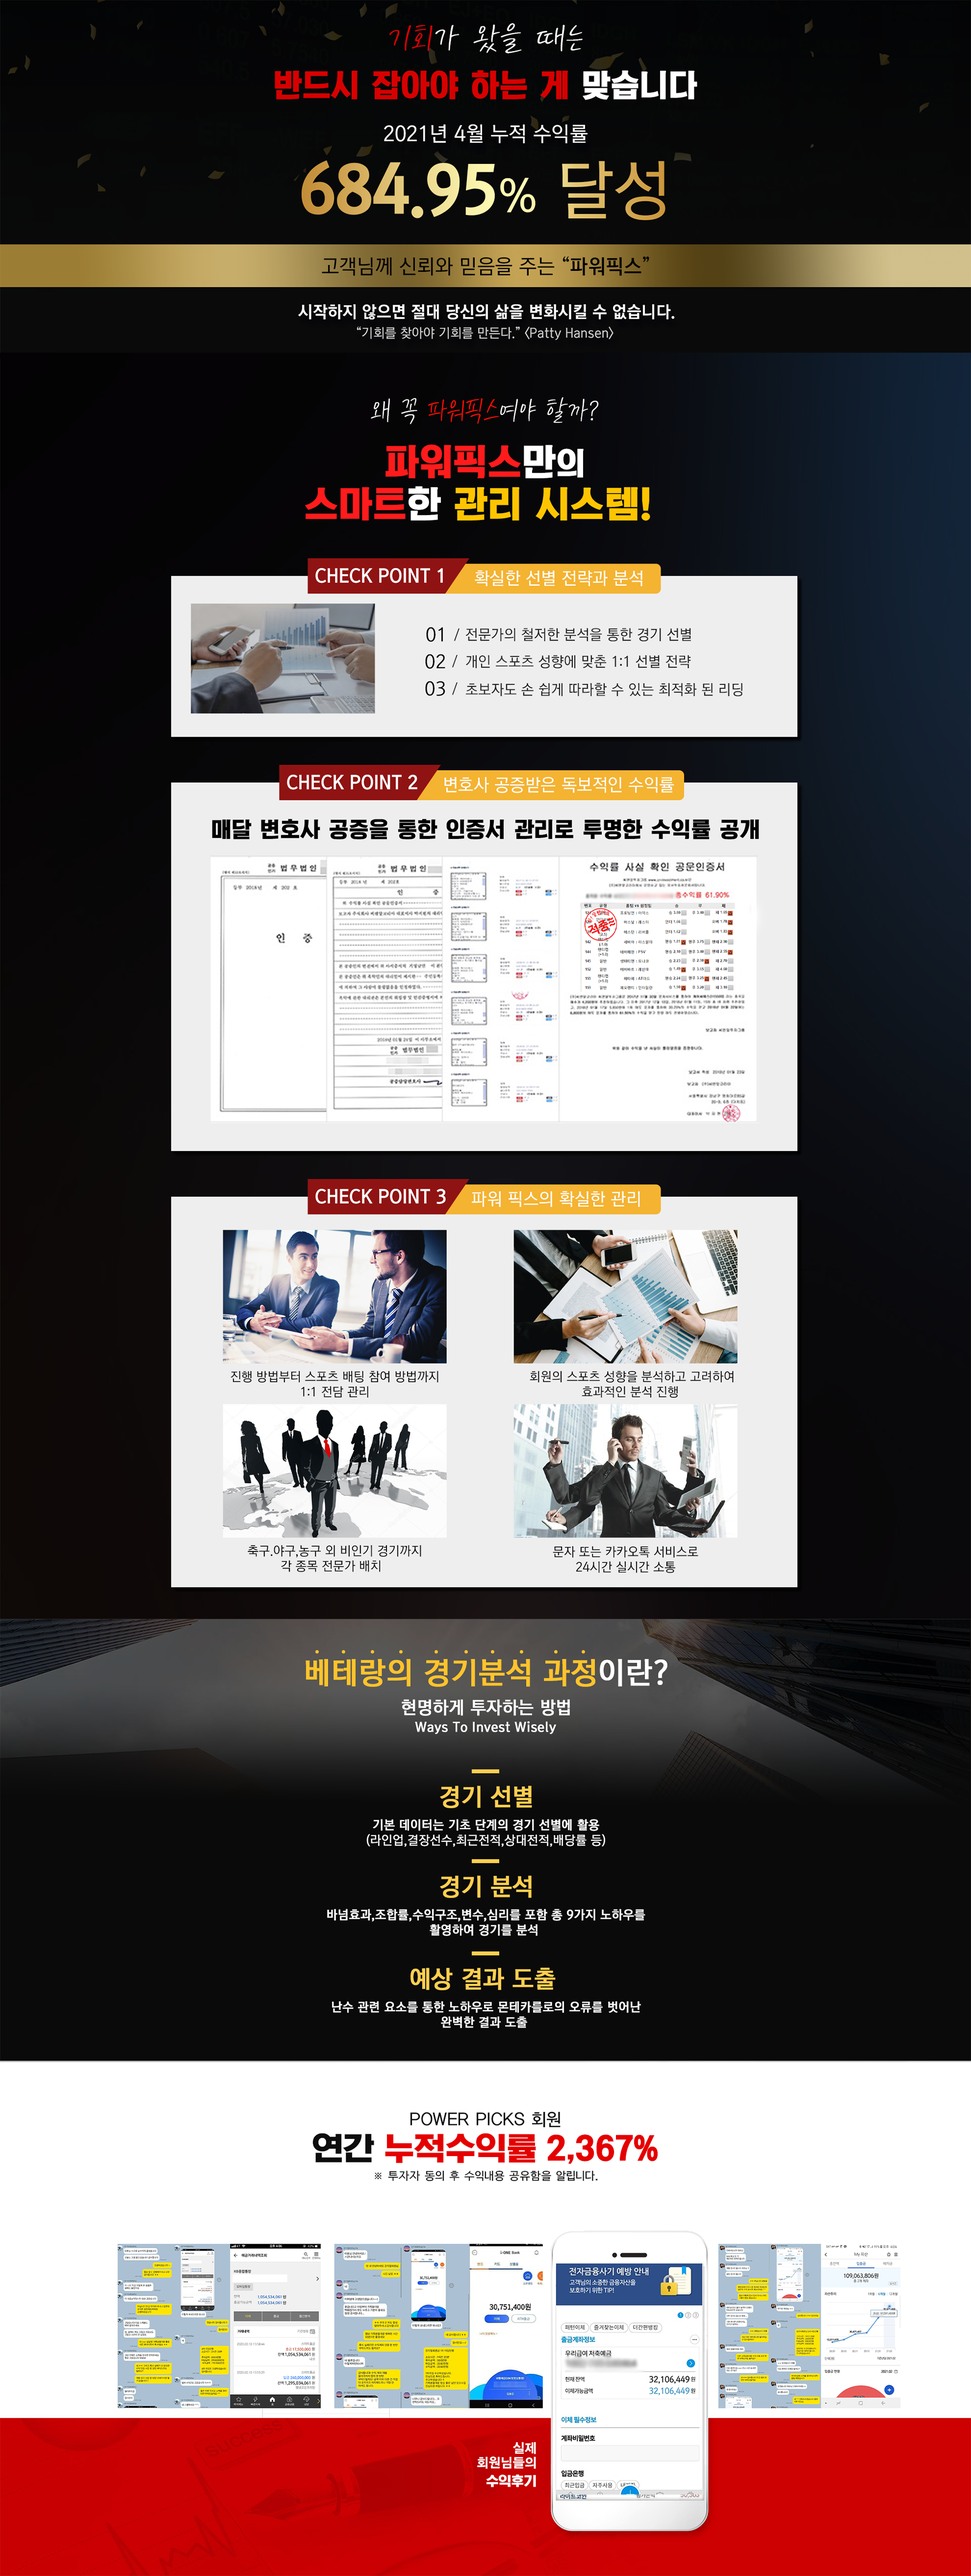
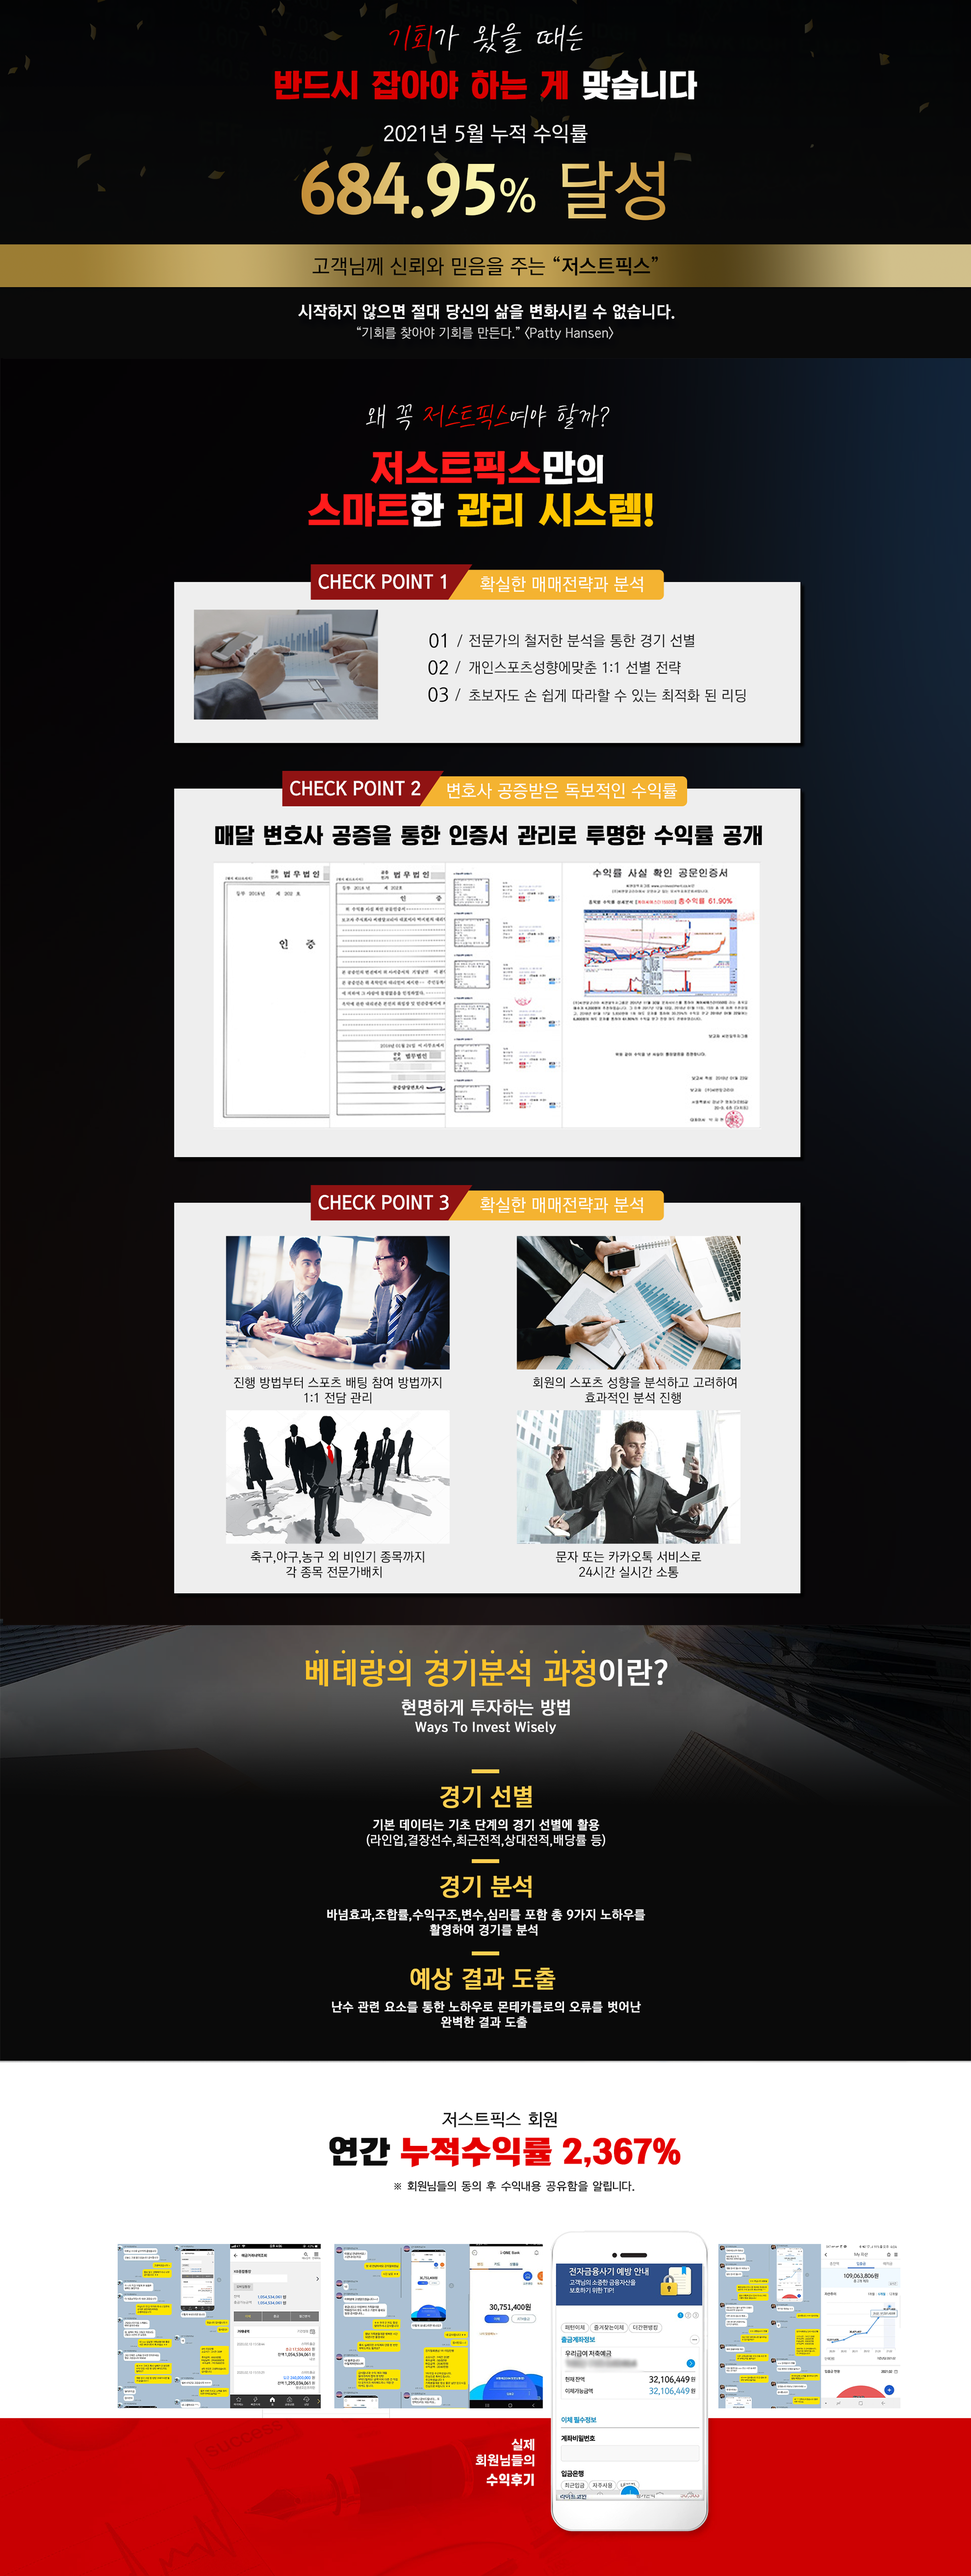
Add files via upload

diff --git a/index.html b/index.html
@@ -502,8 +502,8 @@
 <body>
   <div class="header">
     <div class="logo">
-      <a href="#"><img class="one" src="https://cdn.imweb.me/thumbnail/20210427/4fc90b4ac760f.png" alt=""></a>
-      <img class="two" src="https://cdn.imweb.me/thumbnail/20210427/f48c966fe1bec.png" alt="">
+      <a href="#"><img class="one" src="logo.png" alt=""></a>
+      <img class="two" src="white logo.png" alt="">
     </div>
     <div class="menu">
       <ul class="menu_container">
@@ -604,9 +604,9 @@
     <div class="footer-form" style="background-color: #212339; width: 100%; height: 217px;">
       <div style="height: 32px;"></div>
       <div>
-        <p class="footer-text">대표자명 : 이관희 상호 : 제일컴퍼니 주소 : 경기도 의정부시 호국로 1430, 401-1호(금오동)</p>
-        <p class="footer-text">사업자등록번호 : 510-24-51680</p>
-        <p class="footer-text">COPYRIGHT © 2021 제일컴퍼니 ALL RIGHT RESERVED</p>
+        <p class="footer-text">대표자명 : 최지훈 상호 : 저스트렌탈 주소 : 경기도 파주시 청석로 350, 817동 802호</p>
+        <p class="footer-text">사업자등록번호 : 117-19-06492</p>
+        <p class="footer-text">COPYRIGHT © 2021 저스트렌탈 ALL RIGHT RESERVED</p>
       </div>
     </div>
     <script>
